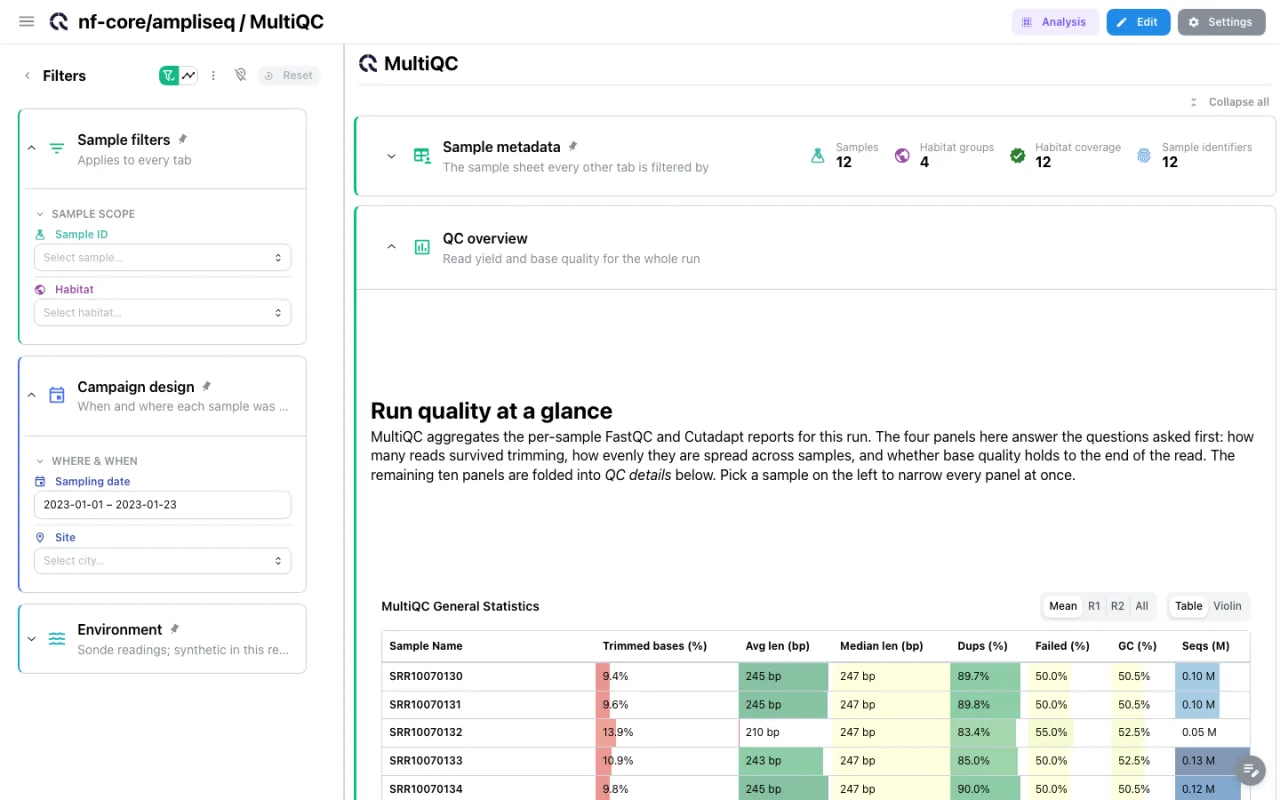
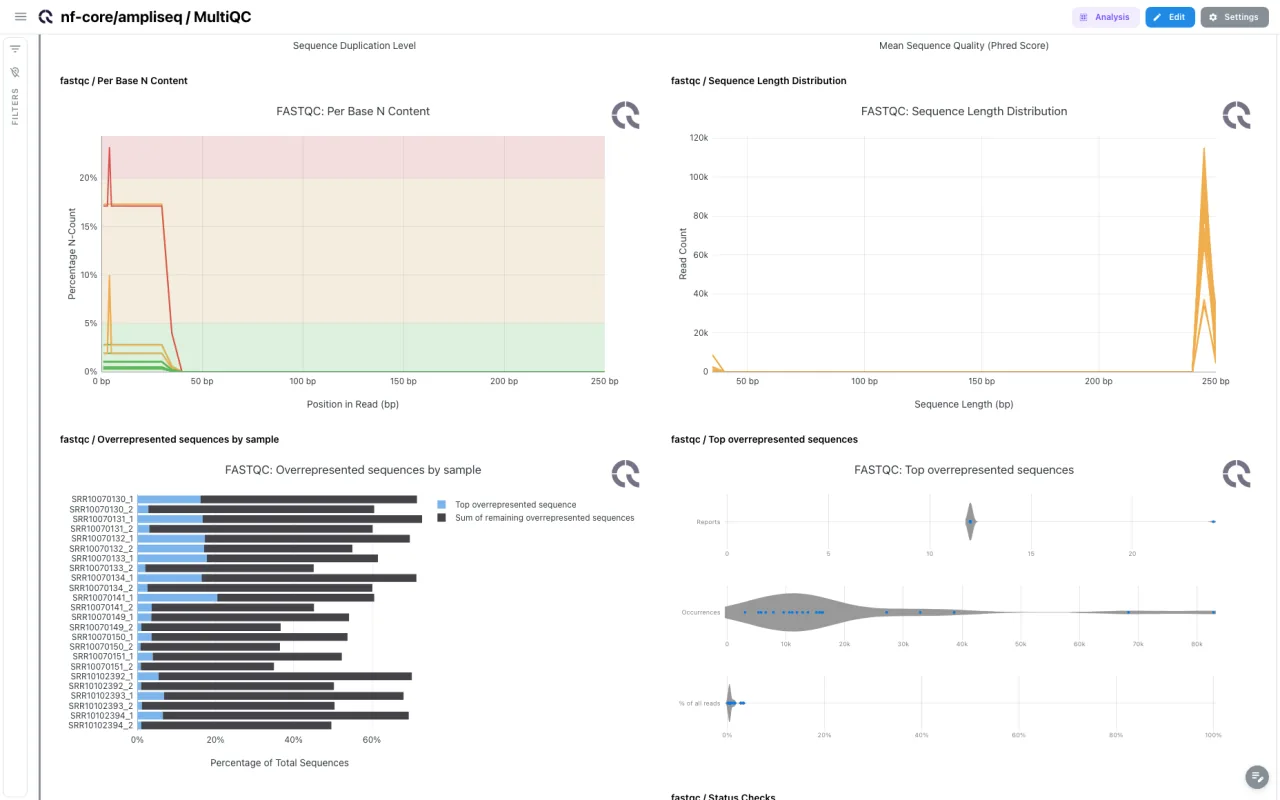
docs(landing): recapture the MultiQC band with more module panels
The previous frame led with General Statistics and showed a single module
plot. Capture the unfolded "QC details" section instead, where four FastQC
panels sit in frame as separate cards.

Captured at 1856x1160: the grid gives each panel 6 of 12 columns and 516px of
height, so a 900px viewport only ever fits one row plus a sliver.

Claude-Session: https://claude.ai/code/session_01Nf4c6hn9wbUq8buVF4tb3c

diff --git a/docs/index.md b/docs/index.md
@@ -401,7 +401,7 @@ hide:
     <article class="feature-row">
       <div class="feature-row-visual">
         <button type="button" class="feature-frame" aria-label="Enlarge the screenshot: a MultiQC tab in a dashboard">
-          <img src="images/landing/multiqc_light.webp" alt="A MultiQC tab in a dashboard, with General Statistics and per-module plots beside the dashboard filters" loading="lazy">
+          <img src="images/landing/multiqc_light.webp" alt="A MultiQC tab in a dashboard, with four FastQC module plots each placed as its own card" loading="lazy">
           <span class="feature-zoom" aria-hidden="true"><svg xmlns="http://www.w3.org/2000/svg" viewBox="0 0 24 24"><path d="M15.5,14L20.5,19L19,20.5L14,15.5V14.71L13.73,14.43C12.59,15.41 11.11,16 9.5,16A6.5,6.5 0 0,1 3,9.5A6.5,6.5 0 0,1 9.5,3A6.5,6.5 0 0,1 16,9.5C16,11.11 15.41,12.59 14.43,13.73L14.71,14H15.5M9.5,14C12,14 14,12 14,9.5C14,7 12,5 9.5,5C7,5 5,7 5,9.5C5,12 7,14 9.5,14M12,10H10V12H9V10H7V9H9V7H10V9H12V10Z"/></svg></span>
         </button>
       </div>
